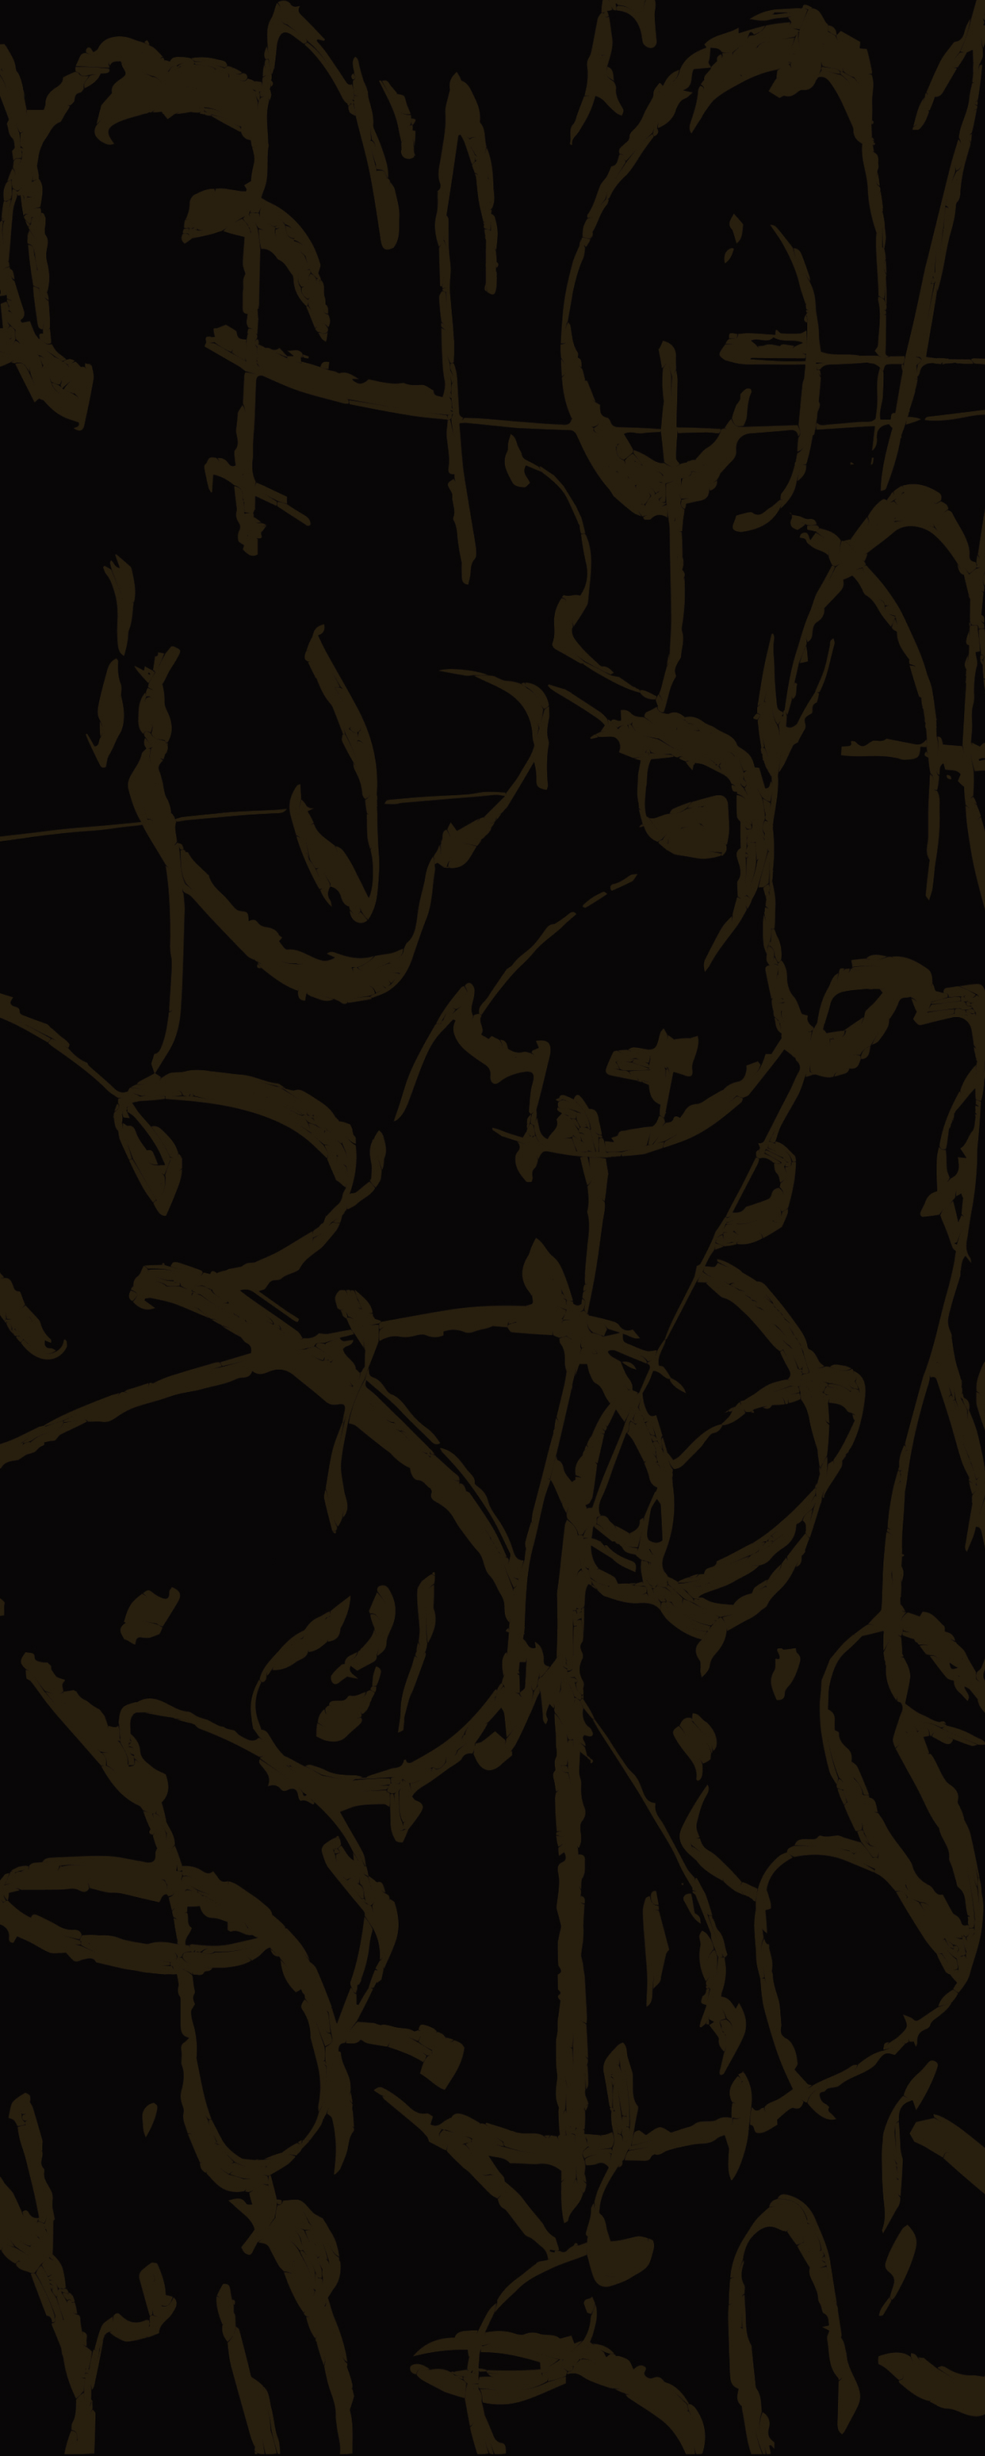
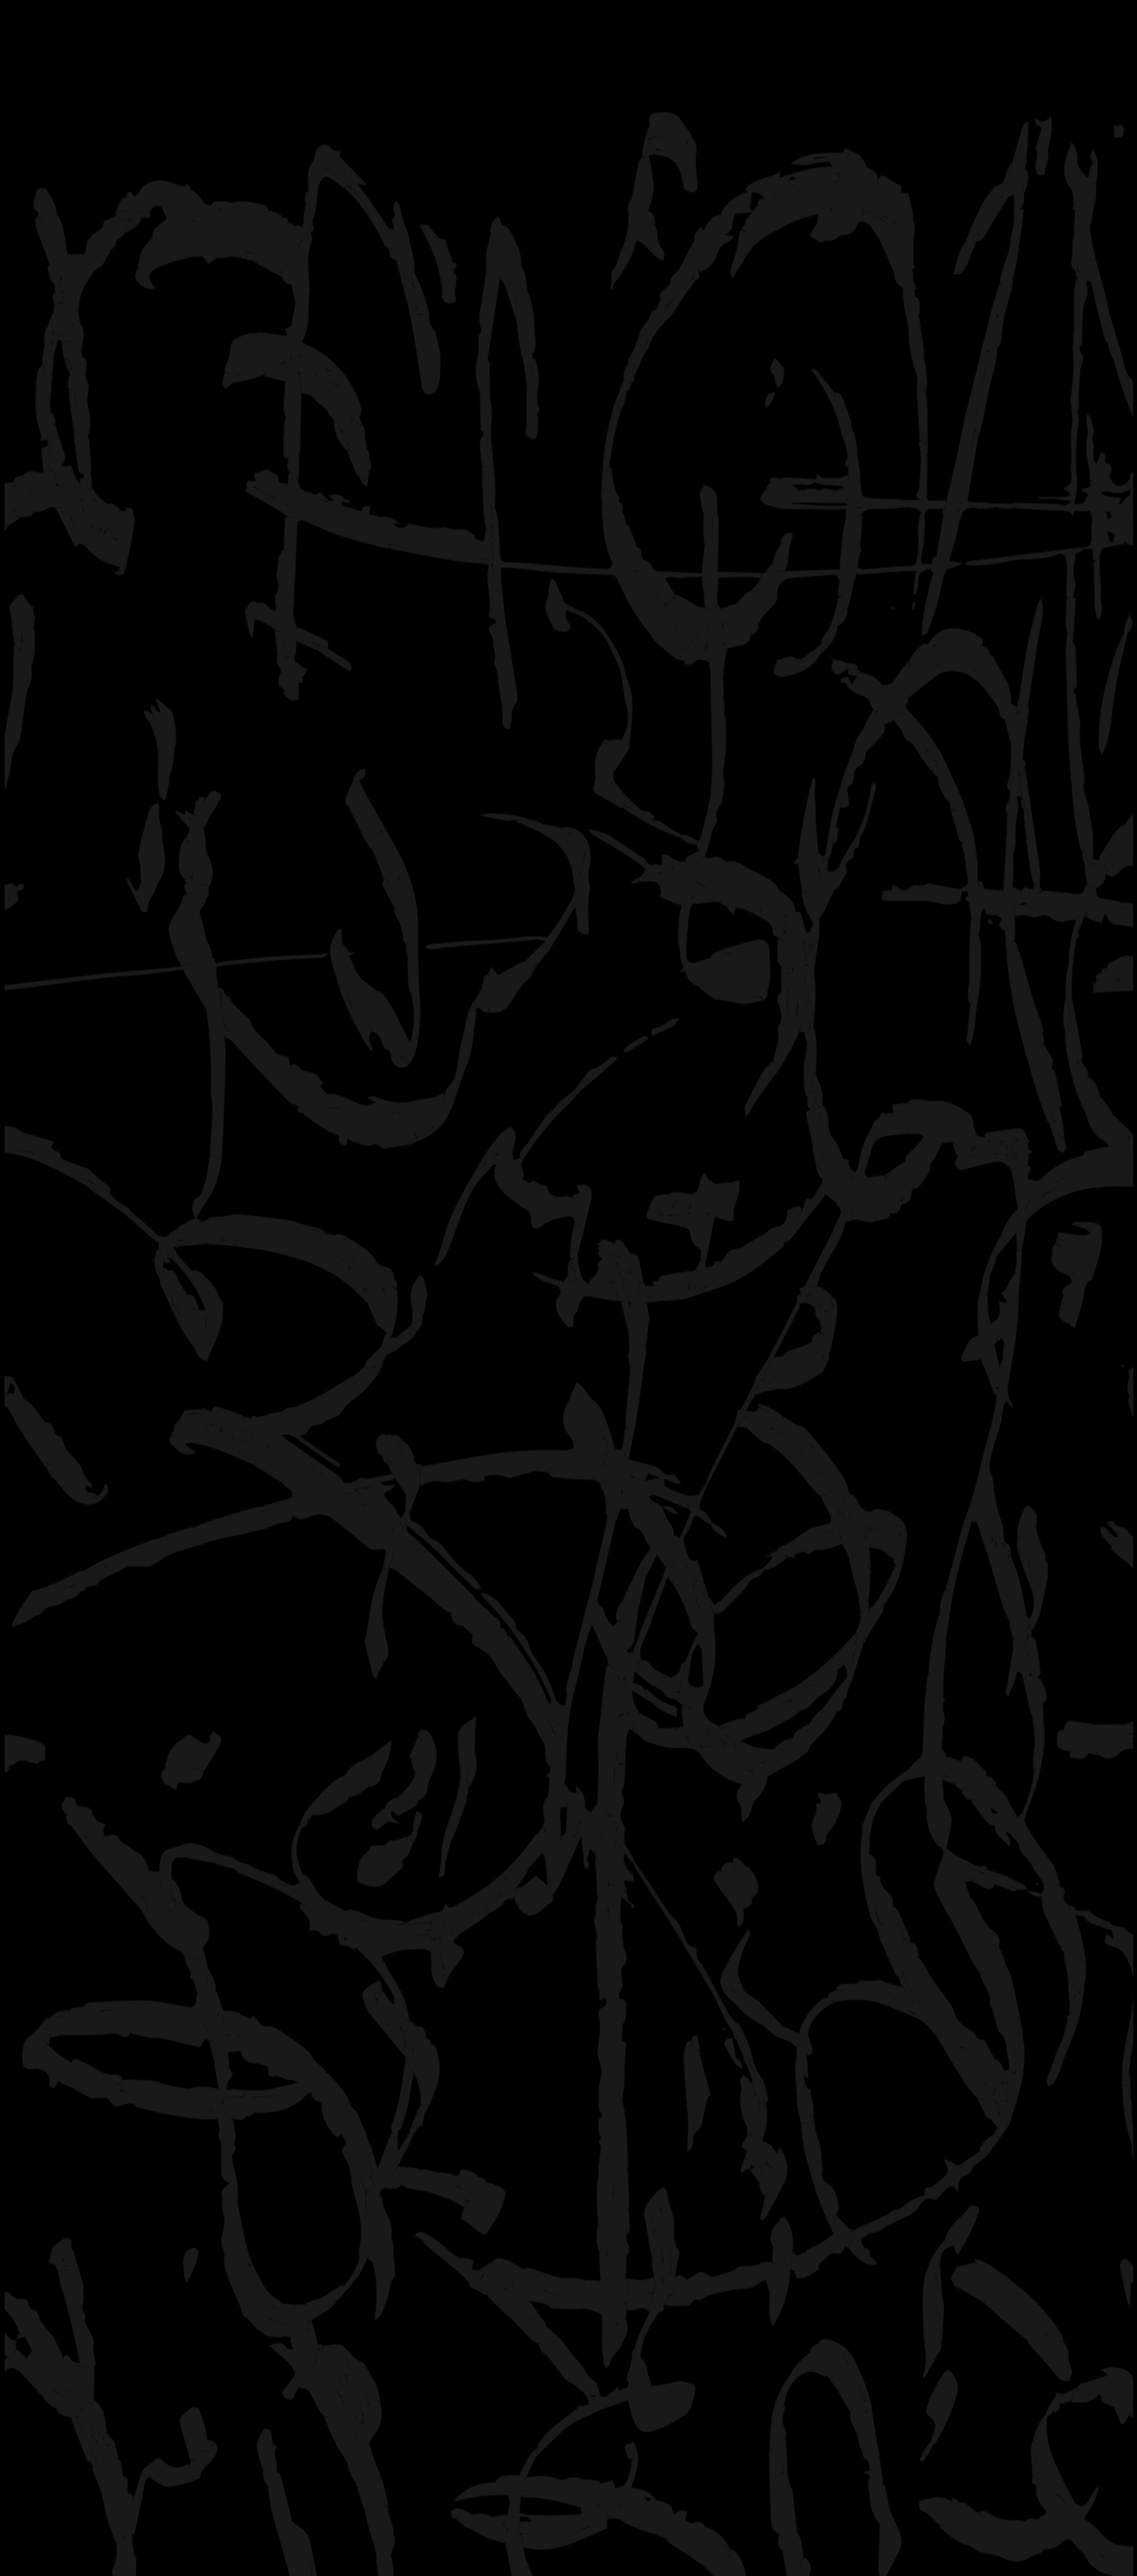
embed page profile

diff --git a/src/views/Whoiam.vue b/src/views/Whoiam.vue
@@ -1,32 +1,99 @@
 <template>
   <div class="text-white mx-4">
-    <section>
-      <div class="max-w-[500px]">
-        <h1 class="pt-28 text-4xl font-kiona">Qui je suis ?</h1>
-        <p class="pt-2 text-4xl font-kiona font-normal text-tertiary">Hello !!</p>
-        <p class="pt-4">
-          Je m’appelle Cheik KONE actuellement en première année de Bachelor Web à Hetic. Je suis
-          développeur-FullStack avec de bonnes notions en design.
-        </p>
-        <p class="pt-10">Passionné par le web et la création de petits jeux indépendants.</p>
+    <section class="lg:pl-40">
+      <section>
+        <div class="max-w-[500px] lg:max-w-[1300px] 2xl:max-w-[1500px] 2xl:pb-80">
+          <h1 class="pt-28 text-4xl font-kiona lg:pt-40 lg:text-[50px] py-8">Qui je suis ?</h1>
+          <p class="pt-2 text-4xl font-kiona text-tertiary lg:text-[80px] font-bold py-10">
+            Hello !!
+          </p>
+          <section class="lg:text-xl">
+            <div class="relative flex items-center">
+              <p class="pt-4 lg:pr-20">
+                Lorem ipsum dolor sit amet, consectetur adipiscing elit. Euismod id lectus amet,
+                pretium vulputate. Lobortis vitae nisl, augue ullamcorper venenatis imperdiet
+                faucibus id sapien. Eu quis leo, lectus placerat pulvinar. Suspendisse in ut lectus
+                amet suspendisse id quis vel. Lorem ipsum dolor sit amet, consectetur adipiscing
+                elit. Euismod id lectus amet, pretium vulputate. Lobortis vitae nisl, augue
+                ullamcorper venenatis imperdiet faucibus id sapien. Eu quis leo, lectus placerat
+              </p>
+              <div class="h-[300px] relative hidden lg:block">
+                <div
+                  class="w-[400px] h-[400px] bg-primary absolute rounded-full top-[-30px] left-[-30px]"
+                ></div>
+                <div
+                  class="w-[400px] h-[400px] bg-tertiary absolute rounded-full top-[30px] left-[30px]"
+                ></div>
+                <img class="min-w-[400px] z-20" src="/photo-cheik-kone.png" alt="" />
+              </div>
+            </div>
+          </section>
+        </div>
+      </section>
+
+      <div class="lg:flex">
+        <section>
+          <p class="pt-8 text-4xl font-kiona font-semibold text-primary">SKILLs</p>
+          <div class="list-disc lg:pl-6">
+            <div class="pt-10 text-2xl">
+              <ul class="list-disc">
+                <li class="uppercase font-bold">Design</li>
+              </ul>
+              <ul class="list-disc pl-8 pt-3">
+                <div class="pl-4">
+                  <li class="text-base">UX</li>
+                  <p class="max-w-[300px] text-base">
+                    augue ullamcorper venenatis imperdiet faucibus id sapien. Eu quis leo, lectus
+                    placerat pulvinar. Suspendisse in ut lectus amet suspendisse id quis vel.augue
+                    ullamcorper venenatis imperdiet faucibus id sapien. Eu quis leo, lectus
+                    placerat.
+                  </p>
+                </div>
+                <div class="pl-4">
+                  <li class="text-base">UI</li>
+                  <p class="max-w-[600px] text-base">
+                    augue ullamcorper venenatis imperdiet faucibus id sapien. Eu quis leo, lectus
+                    placerat pulvinar. Suspendisse in ut lectus amet suspendisse id quis vel.augue
+                    ullamcorper venenatis imperdiet faucibus id sapien. Eu quis leo, lectus
+                    placerat.
+                  </p>
+                </div>
+              </ul>
+            </div>
+            <div class="pt-10 text-2xl lg:pb-24">
+              <ul class="list-disc">
+                <li class="uppercase font-bold">Developpement</li>
+              </ul>
+              <ul class="list-disc pl-8">
+                <li class="pl-4">Front-end</li>
+                <li class="pl-4">back-end</li>
+              </ul>
+            </div>
+          </div>
+        </section>
+        <div class="list-disc lg:left-[-200px]">
+          <p class="pt-8 text-4xl font-kiona font-semibold text-tertiary">Hobies</p>
+          <div class="pt-10 text-xl pl-6">
+            <ul class="list-disc lg:leading-[46px]">
+              <li>Développement</li>
+              <li>Jeux vidéo</li>
+              <li>Art Peinture</li>
+              <li>dessin</li>
+              <li>Manga</li>
+              <li>3D</li>
+            </ul>
+          </div>
+        </div>
       </div>
     </section>
-
-    <div class="">
-      <p class="pt-8 text-4xl font-kiona font-medium text-primary">SKILL</p>
-      <div class="pt-10 text-2xl">
-        <p>- Design</p>
-        <ul>
-          <li class="pl-4">- UX/UI DESIGN</li>
-        </ul>
-      </div>
-      <div class="pt-10 text-2xl pb-24">
-        <p>- Developpement</p>
-        <ul>
-          <li class="pl-4">- Front-end</li>
-          <li class="pl-4">- back-end</li>
-        </ul>
-      </div>
-    </div>
   </div>
 </template>
+
+<style lang="scss" scope>
+.dot {
+  display: block;
+  width: 4px;
+  height: 4px;
+  background: red;
+}
+</style>

diff --git a/src/views/Projets.vue b/src/views/Projets.vue
@@ -75,14 +75,14 @@ const openLink = (index: string) => {
     >
       Projets
     </h1>
-    <div class="relative h-[70vh] top-[15vh] lg:top-10 z-50">
+    <div class="relative h-[70vh] max-h-[600px] top-[15vh] lg:top-10 z-50">
       <div
-        @click="() => !isMode3 || toggleMode()"
+        @click="() => toggleMode()"
         ref="containerRef"
         :class="[
           'lg:z-50 bg-white absolute top-0 left-0 right-0 mx-auto my-auto bottom-0 rounded-lg transition-all duration-1000 cursor-pointer overflow-hidden',
           indicatorOnTransion ? 'lg:-translate-x-[200%]' : '',
-          isMode3 ? 'w-[80vw] h-[509px]' : 'w-[88vw] h-[60vh] lg:h-96 lg:w-[448px] lg:ml-40'
+          isMode3 ? 'w-[80vw] h-[509px]' : 'w-[88vw] h-[60vh] lg:h-72 lg:w-[400px] lg:ml-32'
         ]"
       >
         <div class="relative h-full w-full flex justify-center">
@@ -98,8 +98,8 @@ const openLink = (index: string) => {
           <div
             ref="textRef"
             :class="[
-              'text-white text-5xl z-40 font-display uppercase absolute top-0 bottom-0 my-auto flex flex-col justify-center transition-all delay-1000 duration-1000 mx-auto pointer-events-none',
-              isMode3 ? 'translate-x-[40px] scale-[1.1]' : 'translate-x-0 scale-100'
+              'text-white lg:text-3xl z-40 font-display uppercase absolute top-0 bottom-0 my-auto flex flex-col justify-center transition-all delay-1000 duration-1000 mx-auto pointer-events-none',
+              isMode3 ? 'translate-x-[40px] scale-[1.8]' : 'translate-x-0 scale-100'
             ]"
           >
             <p class="font-bold">{{ currentProject.title }}</p>
@@ -109,28 +109,27 @@ const openLink = (index: string) => {
           ></div>
         </div>
       </div>
-      <div
-        class="text-white w-[88vw] lg:max-w-[1300px] absolute top-0 right-0 lg:right-auto my-auto bottom-0 flex flex-col items-end pr-14 transition-all duration-1000"
-        :class="{ 'translate-x-[100vw]': isMode3 }"
-      >
-        <section class="hidden lg:block absolute top-[-75px] text-5xl font-bold right-12">
-          <p>{{ currentProjectIndex + 1 }}</p>
-          <p class="pt-4">{{ projects.length }}</p>
-        </section>
-        <p class="hidden lg:block pt-32"><strong>Role</strong> / {{ currentProject.role }}</p>
-
-        <div class="hidden lg:block w-[500px] text-right pt-10 lg:text-base lg:min-h-[250px]">
-          <p>
-            {{ currentProject.description }}
-          </p>
-        </div>
-
-        <AButton
-          @click="toggleMode() && openLink(currentProjectIndex)"
-          class="mx-auto mt-[60vh] lg:relative lg:mt-10 lg:mr-32"
+      <div class="relative">
+        <div
+          class="text-white w-[88vw] lg:max-w-[1150px] absolute top-0 right-0 lg:right-auto my-auto bottom-0 flex flex-col items-end pr-14 transition-all duration-1000"
+          :class="{ 'translate-x-[100vw]': isMode3 }"
         >
-          En voir plus
-        </AButton>
+          <section class="hidden lg:block absolute bottom-[-21px] text-5xl font-bold right-12">
+            <p>{{ currentProjectIndex + 1 }}</p>
+            <p class="pt-4">{{ projects.length }}</p>
+          </section>
+          <p class="hidden lg:block pt-32"><strong>Role</strong> / {{ currentProject.role }}</p>
+
+          <div class="hidden lg:block w-[500px] text-right pt-10 lg:text-base lg:min-h-[230px]">
+            <p>
+              {{ currentProject.description }}
+            </p>
+          </div>
+
+          <AButton @click="toggleMode()" class="mx-auto mt-[60vh] lg:relative lg:mt-10 lg:mr-32">
+            En voir plus
+          </AButton>
+        </div>
       </div>
     </div>
     <section

diff --git a/src/components/AppMain.vue b/src/components/AppMain.vue
@@ -9,7 +9,7 @@
           <feTurbulence
             id="turbulence1"
             type="turbulence"
-            numOctaves="5"
+            numOctaves="2"
             result="NOISE1"
           ></feTurbulence>
           <feDisplacementMap in="SourceGraphic" in2="NOISE1" scale="100"></feDisplacementMap>
@@ -27,8 +27,15 @@
       <img
         style="filter: url(#wavyBackground)"
         src="/background-image.jpg"
-        :class="{ 'opacity-100': isMode3 || isMode2 }"
-        class="w-full fixed scale-110 transition-all duration-700 opacity-0"
+        :class="{ 'opacity-100': isMode3 || isMode2 || isMode4 }"
+        class="w-full absolute scale-110 transition-all duration-700 opacity-0"
+        alt=""
+      />
+      <img
+        style="filter: url(#wavyBackground)"
+        src="/background-image.jpg"
+        :class="{ 'opacity-100': isMode3 || isMode2 || isMode4}"
+        class="w-full absolute scale-110 transition-all duration-700 opacity-0 top-[200vh]"
         alt=""
       />
       <section class="h-[100vh] w-[100vw] absolute top-0">
@@ -37,7 +44,7 @@
           ref="transitionContainer"
           class="transition-all duration-700 w-[100vw] h-[88vh] bg-black absolute left-0 right-0 mx-auto my-auto top-0 bottom-0 flex justify-center items-center overflow-hidden"
           :class="{
-            'w-[82vw] left-0 lg:ml-0 rounded-3xl lg:rounded-l-none lg:h-[64vh] lg:max-w-[1300px]':
+            'w-[82vw] left-0 lg:ml-0 rounded-3xl lg:rounded-l-none lg:h-[64vh] lg:max-h-[600px] lg:max-w-[1200px]':
               isMode2,
             '!h-[100vh] !w-[100vw]': isMode3,
             '!hidden': isMode4

diff --git a/src/views/Projet.vue b/src/views/Projet.vue
@@ -9,13 +9,16 @@ const props = defineProps({
   }
 })
 
-const openLink = (url : string) => {
+const openLink = (url: string) => {
   window.open(url)
 }
 </script>
 
 <template>
   <div class="lg:pt-40 h-[300vh] w-[100vw]">
+    <div class="h-[300px] w-[100vw] top-0 absolute" style="background: linear-gradient(rgb(0 0 0 / 98%) 0%, rgb(0 0 0 / 80%) 43%, rgba(255, 255, 255, 0) 100%);">
+
+    </div>
     <section class="text-white pt-50 sm:pt-80 lg:pt-32 px-6 sm:px-28">
       <h1 class="font-kiona text-2xl lg:text-[55px] leading-snug">
         {{ project.title }}
@@ -37,13 +40,16 @@ const openLink = (url : string) => {
           Techno<br />
           <span class="text-primary">utilisée /</span>
         </h2>
-        <ul class="w-[90%] pt-4 pl-6 list-disc lg:text-2xl flex justify-around lg:pt-4">
-          <li class="py-4" v-for="tech in project.technologies" :key="tech">{{ tech }}</li>
+        <ul class="w-[90%] pt-4 pl-6 list-disc lg:text-2xl flex justify-around lg:pt-20">
+          <li class="py-4 flex flex-col" v-for="tech in project.technologies" :key="tech">
+            <img class="h-14" style="filter: grayscale(100%)" :src="tech.img" :alt="tech.name" />
+            <p class="text-center pt-14">{{ tech.name }}</p>
+          </li>
         </ul>
       </div>
 
       <div class="flex justify-center pt-24 cursor-pointer">
-        <AButton @click="openLink(project.link)" >Voir le site</AButton>
+        <AButton @click="openLink(project.link)">Voir le site</AButton>
       </div>
 
       <div>

diff --git a/src/views/HomeView.vue b/src/views/HomeView.vue
@@ -26,17 +26,17 @@
 
     <div class="font-display text-4xl tracking-[10px]">
       <Motion :preset="'slideVisibleLeft'" :duration="2000">
-        <h1 class="font-bold pt-20 text-xl lg:text-[88px] uppercase italic text text-tertiary">
+        <h1 class="font-bold pt-20 text-xl lg:text-[50px] uppercase italic text text-tertiary">
           welcome !
         </h1>
       </Motion>
       <Motion :preset="'slideVisibleLeft'" :duration="2000" delay="1000">
-        <h1 class="font-bold pt-20 text-xl lg:text-[88px] uppercase text text-primary">
+        <h1 class="font-bold pt-20 text-xl lg:text-[60px] uppercase text text-primary">
           kone Cheik
         </h1>
       </Motion>
       <div
-        class="lg:pt-40 pb-20 transition-all duration-1000"
+        class="lg:pt-32 pb-20 transition-all duration-1000"
         :class="{ 'blur-[2px]': onTransition }"
       >
         <h1
@@ -117,9 +117,9 @@ onMounted(() => {
       }
       setTimeout(() => {
         onTransition.value = false
-      }, 1200)
-    }, 300)
-  }, 2500)
+      }, 1300)
+    }, 400)
+  }, 2800)
 })
 
 onUnmounted(() => {

diff --git a/src/helpers/projetInformation.js b/src/helpers/projetInformation.js
@@ -61,7 +61,13 @@ export const projetInformations = [
         thumbnail: '/team-product.png'
       }
     ],
-    technologies: ['Vue.js', 'React', 'pinia', 'docker', 'mongodb', 'Node.js']
+    technologies: [
+      { img: '/vue.js-logo-2.svg', name: 'Vue.js' },
+      { img: '/pinialogo.svg', name: 'pinia' },
+      { img: '/docker.svg', name: 'docker' },
+      { img: '/mongodb.svg', name: 'Mongodb' },
+      { img: '/node.js-logo.svg', name: 'Node.js' }
+    ]
   },
   {
     id: 'two',
@@ -73,7 +79,7 @@ export const projetInformations = [
     bigDescription: '',
     imgSrc: 'https://picsum.photos/600/400?random=2',
     year: 2020,
-    technologies: ['Adobe XD', 'Figma', 'Sketch']
+    technologies: []
   },
   {
     id: 'three',
@@ -85,7 +91,7 @@ export const projetInformations = [
     bigDescription: '',
     imgSrc: 'https://picsum.photos/600/400?random=3',
     year: 2021,
-    technologies: ['React', 'Redux', 'TypeScript']
+    technologies: []
   }
 ]
 

diff --git a/src/components/SecondCanvasContainer.vue b/src/components/SecondCanvasContainer.vue
@@ -1,5 +1,5 @@
 <template>
-  <div ref="secondCanvasContainer" class="second-canvas-container opacity-50 w-full h-full animate-hue-rotate"></div>
+  <div ref="secondCanvasContainer" class="second-canvas-container opacity-50 w-full h-full grayscale"></div>
 </template>
 
 <script setup lang="ts">

diff --git a/src/App.vue b/src/App.vue
@@ -1,5 +1,5 @@
 <template>
-  <div class="relative">
+  <div class="relative bg-black">
     <Modal />
     <AppHeader v-if="$route.name != 'home'"/>
     <AppMain  />
